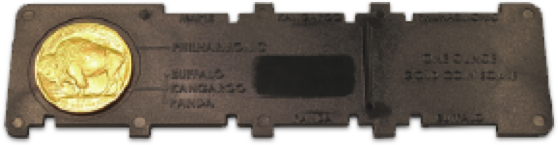
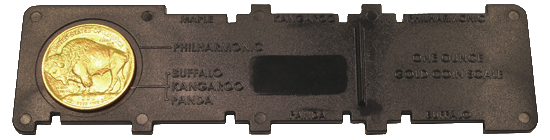
update image

diff --git a/index.html b/index.html
@@ -10,7 +10,7 @@ description: Protect yourself from counterfeit gold coins using this simple gold
     <img src="img/coin.png" style="margin-top: 10px;" alt="gold coin"/>
     <h1>Test Gold Coins</h1>
     <h2>The quick and easy way to test gold coins!</h2>
-    <img src="img/balance.png" class="img-responsive" style="margin: 20px auto; max-width: 400px" alt="gold coin tester"/>
+    <img src="img/balance_dark.png" class="img-responsive" style="margin: 20px auto; " alt="gold coin tester"/>
 
     <a href="/order-now" type="button" class="btn btn-lg btn-primary btn-order" style="margin-bottom: 20px;">Order
         Now <i class="fa fa-angle-double-right"></i></a>
